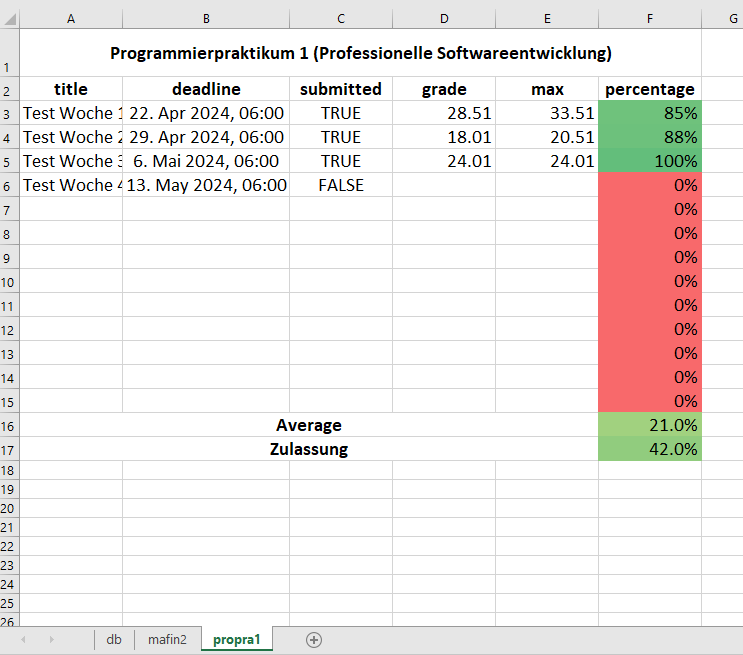
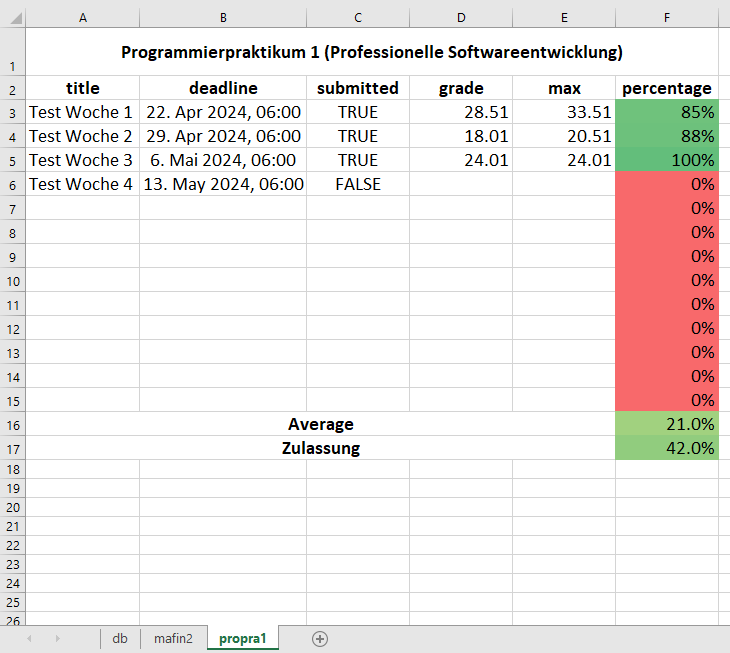
modified:   readme.md

diff --git a/readme.md b/readme.md
@@ -15,7 +15,7 @@ just run `pip install -r requirements.txt` in the project directory
 
 ## Demo Images
 
-![excel_table_demo](img/2024-05-13-16-20-28.png)
+![excel_table_demo](img/2024-05-13-16-20-28.png | width=300)
 
 ### Disclaimer
 
